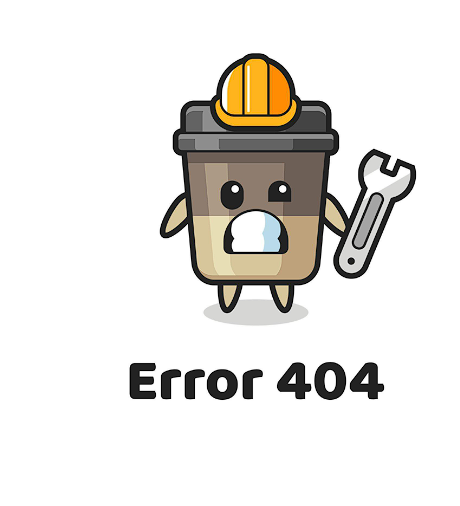
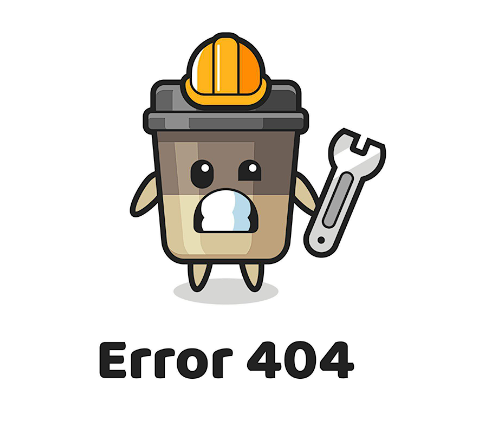
se creo el componente Error404

Changed region(s): [[0.1826, 0.0612, 0.913, 0.9176]]

diff --git a/src/components/pages/Error404.jsx b/src/components/pages/Error404.jsx
@@ -1,10 +1,16 @@
-import React from 'react';
+import error404 from '../../assets/error404.png'
+import Button from 'react-bootstrap/Button';
 
 const Error404 = () => {
     return (
-        <div>
-            
+        <section>
+        <div className='text-center'>
+           <img src={error404} alt="imagen error 404" className='w-50'/> 
         </div>
+        <div className='d-flex justify-content-center mb-5'>
+        <Button variant="primary">Volver al inicio</Button>
+        </div>
+        </section>
     );
 };
 

diff --git a/src/App.jsx b/src/App.jsx
@@ -10,7 +10,7 @@ function App() {
   return (
     <>
       <Menu></Menu>
-      <Inicio></Inicio>
+      {/*<Inicio></Inicio>*/}
       {/*<Administrador></Administrador>*/}
       <Error404></Error404>
       <Footer></Footer>
